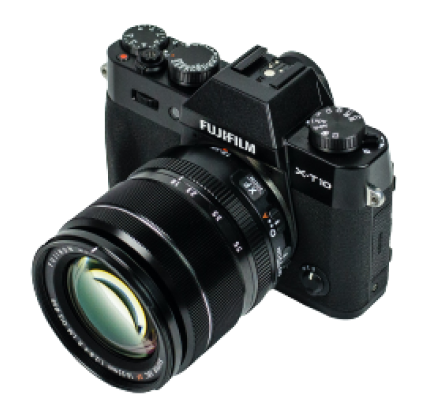
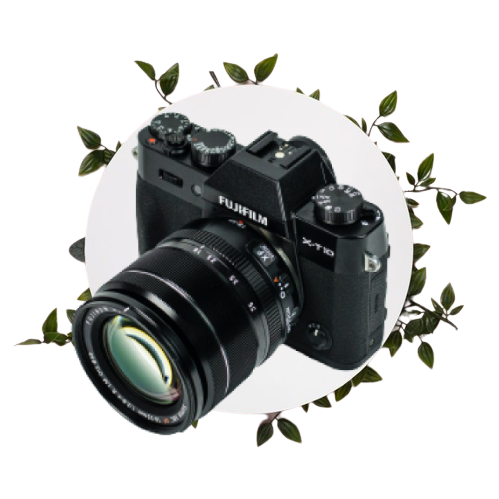
Advertisement and prebook part is done

diff --git a/Influencer Gears/index.html b/Influencer Gears/index.html
@@ -21,6 +21,32 @@
             <li><i class="fa-solid fa-cart-shopping"></i></li>
         </div>
     </section>
+    <section class="second-section">
+        <div class="s2-first">
+            <h1>Start your Journey as Influencer</h1>
+            <p>Embarking on your journey as an influencer is an exciting venture filled with opportunities and
+                challenges. First and foremost, define your niche, a specific area you're passionate and knowledgeable
+                about. Craft compelling content, be it through blog posts, videos, or social media, and maintain
+                consistency to engage your audience.</p>
+            <button>Preebook now <i class="fas fa-arrow-right"></i></button>
+        </div>
+        <div class="s2-second">
+            <img src="images/main-camera.png" alt="image can't found">
+        </div>
+    </section>
+    <section class="third-section">
+        <hr>
+        <div class="advertisement">
+            <img src="logos/Alibaba.svg" alt="image can't found">
+            <img src="logos/Amazon.svg" alt="image can't found">
+            <img src="logos/Daraz.pk Logo.svg" alt="image can't found">
+            <img src="logos/Ebay.svg" alt="image can't found">
+            <img src="logos/Rakuten.svg" alt="image can't found">
+            <img src="logos/Walmart.svg" alt="image can't found">
+            <img src="logos/Target.svg" alt="image can't found">
+        </div>
+        <hr>
+    </section>
 
 </body>
 

diff --git a/Influencer Gears/styles.css b/Influencer Gears/styles.css
@@ -8,7 +8,7 @@ body{
     align-items: center;
     margin-top: 50px;
 }
-h1{
+.first-section h1{
     margin-left: 100px;
     font-size: 24px;
 }
@@ -21,3 +21,42 @@ h1{
     font-size: 16px;
     margin-left: 500px;
 }
+.second-section{
+    display: flex;
+}
+.second-section h1{
+    font-size: 52px;
+}
+.s2-first{
+    width: 50%;
+    margin-left: 100px;
+}
+.s2-first p{
+    font-size: 16px;
+}
+.s2-second{
+    width: 50%;
+    padding-left: 90px;
+    margin-right: 20px;
+}
+button{
+    background-color: #E02C6D;
+    height: 44px;
+    width:196px;
+    border-radius: 40px;
+    font-size: 16px;
+    padding: 10px 24px;
+    color: #FFF;
+    font-weight: 700;
+    margin-top: 20px;
+}
+.third-section{
+    margin: 100px ;
+}
+.advertisement{
+    display: grid;
+    align-items: center;
+    grid-template-columns: repeat(7,1fr);
+    height: 105px;
+}
+
